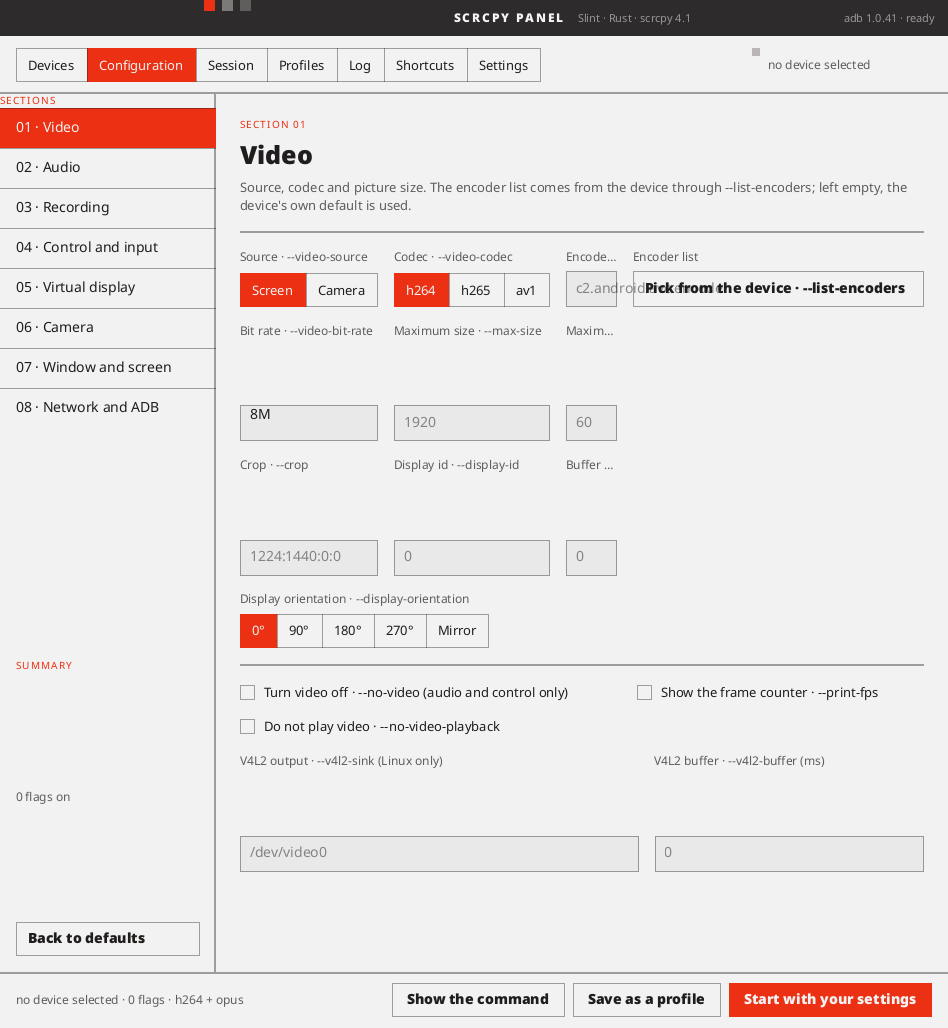
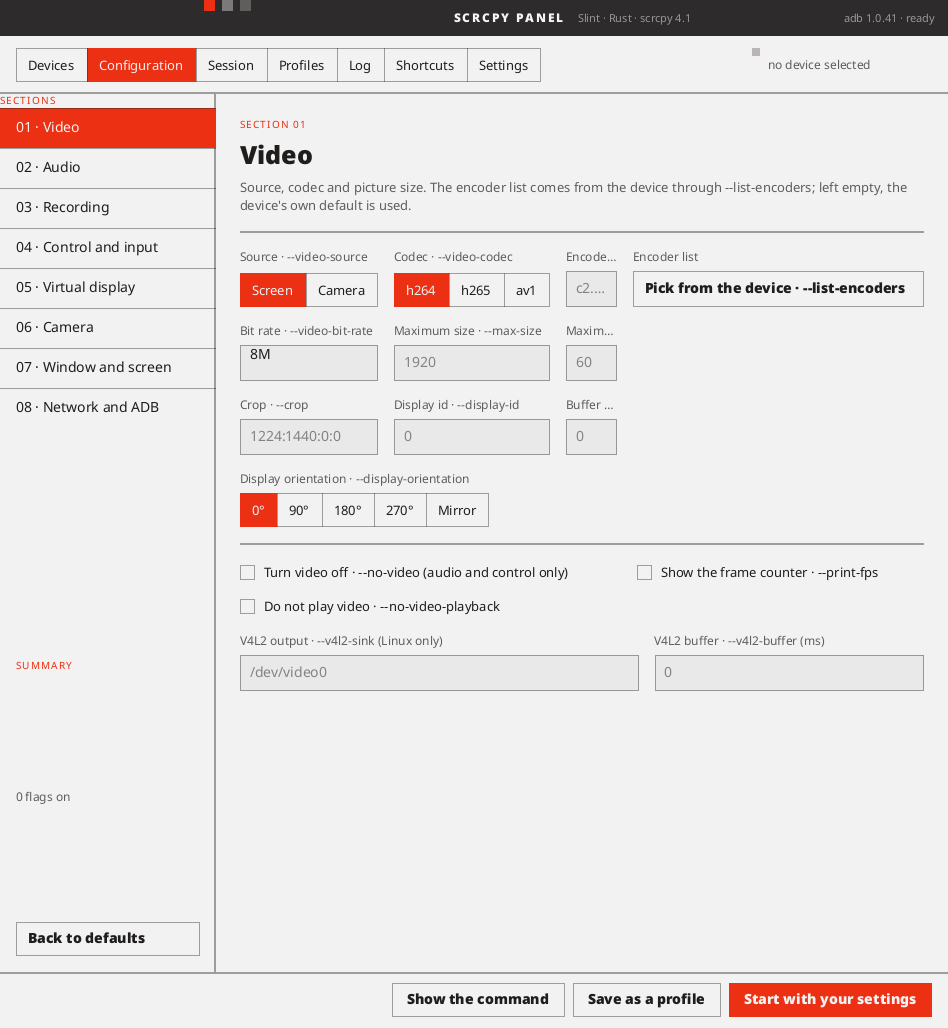
The panel's width is the compositor's, and one field drew over its neighbour
Two things, from one picture taken at the size the panel is actually
given rather than the size it asks for.

The README said the window opens at 948 because "a Window takes the
preference of the layout inside it, and this layout's own preference
wins". That was wrong, and the height says so on its own: a Slint
window's size is preferred.min(max).max(min) over what it declares,
this one declares a preferred height of 800 with no maximum anywhere in
ui/, and the window was 1028 tall. 948x1028 is a tile. COSMIC's
auto-tiler is on here — autotile is true in
~/.config/cosmic/com.system76.CosmicComp/v1/ — and the tile depends on
what else is on the workspace: the same binary was handed 468x492 on a
later day, which is how this was noticed at all. Inside Slint 1200 wins,
because the compiler replaces the child layout's preferred and minimum
with the Window's own rather than taking the larger; it is then thrown
away outside. set_size is the same story with a line to point at now:
winit's Wayland backend takes the compositor's configure verbatim and
resize_event writes it over whatever set_size optimistically reported.
None of that is the client's to fix, and the entry says so.

The overlap was the client's, and it happens at any width where the row
is short of space rather than at 948 in particular. Grp is a GridLayout;
short of space it takes the shortfall from the cells that can give it,
and in the Video section's first row — the only four-cell row in the
[…]

diff --git a/src/panel/mod.rs b/src/panel/mod.rs
@@ -866,3 +866,225 @@ mod stop_tests {
         assert_eq!(status.signal(), Some(libc::SIGKILL));
     }
 }
+
+#[cfg(test)]
+mod picture_tests {
+    //! Photographing the panel, and measuring what is in the picture.
+    //!
+    //! The window's width is not the panel's to choose. COSMIC's auto-tiler is
+    //! on here, so a `--panel` run is given whatever the tile is — 948x1028
+    //! with two windows on a display, 468x492 with four — and neither
+    //! `min-width` nor `set_size` moves it: winit takes the compositor's
+    //! configure verbatim and writes it over whatever was asked for. Looking at
+    //! the panel at a width of one's own choosing therefore means taking the
+    //! compositor out of the loop altogether. A `MinimalSoftwareWindow` is a
+    //! window adapter whose size is whatever it is told, and the software
+    //! renderer draws the real `PanelWindow` into a buffer of that size, with
+    //! no display server involved at all.
+    //!
+    //! `set_platform` takes effect once in a process and the interface language
+    //! is process-wide, so this runs on its own:
+    //!
+    //!     cargo test --release -- --ignored --test-threads=1 picture
+    //!
+    //! `PANEL_SHOT=<path>` also writes the picture out as a P6 PPM, three bytes
+    //! a pixel and no new dependency; `ffmpeg -i shot.ppm shot.png` turns it
+    //! into something that can be looked at.
+
+    use super::*;
+    use slint::platform::software_renderer::{
+        MinimalSoftwareWindow, PremultipliedRgbaColor, RepaintBufferType,
+    };
+
+    /// `Theme.bg`, the colour of the page behind everything.
+    const PAGE: (u8, u8, u8) = (0xf3, 0xf2, 0xf2);
+    /// `Theme.surface`, which is the fill of an `Inp` and of nothing else in a
+    /// configuration row.
+    const SURFACE: (u8, u8, u8) = (0xea, 0xe9, 0xe9);
+    /// Where the section body starts: the section list is 216px and its divider
+    /// is the two before that.
+    const BODY: u32 = 217;
+
+    struct Picture {
+        width: u32,
+        height: u32,
+        pixels: Vec<PremultipliedRgbaColor>,
+    }
+
+    impl Picture {
+        fn at(&self, x: u32, y: u32) -> (u8, u8, u8) {
+            let p = self.pixels[(y * self.width + x) as usize];
+            (p.red, p.green, p.blue)
+        }
+
+        /// Is anything at all drawn in this column, between these rows?
+        ///
+        /// The page is one flat colour and the renderer writes it exactly, so
+        /// a pixel that is not it is a pixel something painted.
+        fn drawn(&self, x: u32, rows: std::ops::Range<u32>) -> bool {
+            rows.into_iter().any(|y| self.at(x, y) != PAGE)
+        }
+
+        fn write_ppm(&self, path: &str) {
+            let mut out = Vec::with_capacity((self.width * self.height * 3) as usize + 32);
+            out.extend_from_slice(format!("P6\n{} {}\n255\n", self.width, self.height).as_bytes());
+            for p in &self.pixels {
+                out.extend_from_slice(&[p.red, p.green, p.blue]);
+            }
+            std::fs::write(path, out).expect("writing the picture");
+        }
+    }
+
+    /// The panel, opened once and drawn at whatever size is asked for.
+    ///
+    /// Once, because `set_platform` takes effect once in a process: the window
+    /// is created against the offscreen adapter and then resized, which is what
+    /// a compositor does to it anyway.
+    struct Panel {
+        adapter: Rc<MinimalSoftwareWindow>,
+        _window: PanelWindow,
+    }
+
+    impl Panel {
+        fn open(tab: &str, section: &str) -> Self {
+            struct Offscreen(Rc<MinimalSoftwareWindow>);
+            impl slint::platform::Platform for Offscreen {
+                fn create_window_adapter(
+                    &self,
+                ) -> std::result::Result<
+                    Rc<dyn slint::platform::WindowAdapter>,
+                    slint::PlatformError,
+                > {
+                    Ok(self.0.clone())
+                }
+            }
+
+            let adapter = MinimalSoftwareWindow::new(RepaintBufferType::NewBuffer);
+            slint::platform::set_platform(Box::new(Offscreen(adapter.clone())))
+                .expect("the platform is set once, by the first of these tests to run");
+
+            let window = PanelWindow::new().expect("the panel window");
+            // Both halves, the way `run()` does it: the interface has two
+            // languages, and setting only Slint's leaves the panel's own
+            // messages — the adb line in the corner is one — in Turkish.
+            window.global::<Settings>().set_language("en".into());
+            apply_language(&window);
+            // The one thing `run()` puts in the chrome that is not a constant,
+            // so that a picture taken here is a picture of the program.
+            window.global::<App>().set_adb_status(adb_status().into());
+            window.global::<App>().set_tab(tab.into());
+            window.global::<App>().set_section(section.into());
+            window.show().expect("showing the window");
+
+            Self { adapter, _window: window }
+        }
+
+        fn shot(&self, width: u32, height: u32) -> Picture {
+            self.adapter.set_size(slint::PhysicalSize::new(width, height));
+
+            let mut pixels =
+                vec![PremultipliedRgbaColor::default(); (width as usize) * (height as usize)];
+            // The first pass lays out and the second draws what the layout
+            // produced; two more in case a binding settles late.
+            for _ in 0..4 {
+                slint::platform::update_timers_and_animations();
+                self.adapter.request_redraw();
+                self.adapter.draw_if_needed(|renderer| {
+                    renderer.render(&mut pixels, width as usize);
+                });
+            }
+            Picture { width, height, pixels }
+        }
+    }
+
+    /// The gutter between the encoder field and the cell beside it, in pixels
+    /// of untouched page, and where the field's own border was found.
+    fn gutter(picture: &Picture) -> (u32, u32) {
+        // The first `Inp` of the topmost row that has one, found by its fill:
+        // `Theme.surface` is an exact colour and nothing else in a row is
+        // filled with it. The first rather than the widest, because at 900 the
+        // encoder field is a ten-pixel sliver and that is exactly the case
+        // worth checking — an elided placeholder still has to stay inside it.
+        let mut found = None;
+        'rows: for y in 0..picture.height {
+            let mut start = None;
+            for x in BODY..picture.width {
+                if picture.at(x, y) == SURFACE {
+                    start.get_or_insert(x);
+                } else if let Some(from) = start.take() {
+                    if x - from >= 6 {
+                        found = Some((y, x - 1));
+                        break 'rows;
+                    }
+                }
+            }
+        }
+        let (top, right) = found.expect("an input box in the section body");
+
+        // The row band that box occupies.
+        let mut bottom = top;
+        while bottom + 1 < picture.height && picture.at(right, bottom + 1) == SURFACE {
+            bottom += 1;
+        }
+        let band = top..bottom + 1;
+
+        // Past the fill comes the box's own 1px border, and after that should
+        // come Theme.s4 of clear page before whatever is in the next cell.
+        let border = right + 1;
+        let mut clear = border + 1;
+        while clear < picture.width && !picture.drawn(clear, band.clone()) {
+            clear += 1;
+        }
+        (clear - (border + 1), border)
+    }
+
+    /// The configuration form's first row is the only one in the panel with
+    /// four cells in it, and at a width the panel is given rather than asks
+    /// for, the encoder field used to be drawn across the gutter beside it.
+    ///
+    /// `Grp` is a `GridLayout`, and a `GridLayout` short of space takes it from
+    /// the cells that can give: both `Seg`s and the `Btn` have a minimum equal
+    /// to their own text, so the whole shortfall lands on the encoder field,
+    /// which has no minimum at all. At 948 that leaves it 51px wide holding a
+    /// 152px placeholder — and a `Rectangle` in Slint does not clip its
+    /// children, so `c2.android.avc.encoder` was painted 112px past its own
+    /// border, over the gutter and under the button drawn after it. Measured
+    /// on this picture before the fix: 71 inked pixels in the 16px gutter,
+    /// filling all sixteen columns of it.
+    ///
+    /// Both halves of the row are still worth having — the field is cramped at
+    /// 948 and this does not widen it — but nothing is drawn on top of
+    /// anything else.
+    #[test]
+    #[ignore = "renders the whole panel and fixes the platform for the process"]
+    fn the_encoder_field_keeps_its_placeholder_to_itself() {
+        let panel = Panel::open("config", "video");
+
+        // The size the compositor handed the window when the README's pictures
+        // were taken, the size the panel actually asks for, and the smallest
+        // it says it supports — where the form is taller than the window and
+        // the section body has to scroll rather than squeeze.
+        for (width, height) in [(948, 1028), (1200, 800), (900, 600)] {
+            let picture = panel.shot(width, height);
+            if let Ok(prefix) = std::env::var("PANEL_SHOT") {
+                picture.write_ppm(&format!("{prefix}-{width}x{height}.ppm"));
+            }
+            let (gutter, border) = gutter(&picture);
+            assert!(
+                gutter > 0,
+                "at {width}x{height} the encoder field's placeholder is drawn outside it: \
+                 its border is at x={border} and x={} is inked as well",
+                border + 1
+            );
+            assert!(
+                gutter >= 12,
+                "at {width}x{height} only {gutter}px of page between the encoder field and \
+                 the cell beside it; the layout leaves 16"
+            );
+            println!(
+                "{width}x{height}: the encoder field's border is at x={border}, \
+                 then {gutter}px of page before the next cell"
+            );
+        }
+    }
+}

diff --git a/README.md b/README.md
@@ -28,9 +28,11 @@ Android devices from a single control panel.
 </tr>
 </table>
 
-<sub>Taken on Linux with Slint's own <code>take_snapshot</code> on the software renderer, at the
-size the panel opens at here — 948×1028. It asks for 1200×800 and does not get it, which is
-[a known issue](#known-issues).</sub>
+<sub>Taken on Linux at the size the panel is given here — 948×1028. It asks for 1200×800 and
+the desktop's tiler decides otherwise, which is [a known issue](#known-issues). The six tabs
+were photographed from a real window with Slint's own <code>take_snapshot</code> on the
+software renderer; the configuration form above them is drawn offscreen at the same size,
+because a real window is not 948 wide on this desktop any more.</sub>
 
 ## A note on the name
 
@@ -710,16 +712,62 @@ in parallel and a third read it. They take turns now — 60 runs, none failed.
 
 ## Known issues
 
-- **The panel opens narrower than it asks for, and its widest row overlaps there.**
-  `ui/panel.slint` declares `preferred-width: 1200px` on the `PanelWindow`, and the window
-  opens at 948 — measured on this desktop, both on Wayland and on Xwayland, and unchanged by
-  calling `set_size` before the window is shown or after (it reports the new size and then
-  goes back). A `Window` takes the preference of the layout inside it, and this layout's own
-  preference wins. At 948 the Configuration tab's "Pick from the device · --list-encoders"
-  button is wider than its cell and draws over the encoder field beside it. Moving the
-  preference onto the layout was tried and made it worse — 948×492 — so it is written down
-  rather than guessed at. `min-width` is 900, so this is inside the size the panel says it
-  supports; widening the window by hand fixes the overlap.
+- **The panel is given its width rather than choosing it, and one row used to overlap when
+  that width was small.** `ui/panel.slint` declares `preferred-width: 1200px` on the
+  `PanelWindow` and the window opened at 948×1028 when the screenshots above were taken. That
+  number is not Slint's. COSMIC's auto-tiler is on here — `autotile` is `true` in
+  `~/.config/cosmic/com.system76.CosmicComp/v1/` — so the window is handed whatever the tile
+  is, and the tile depends on what else is on the workspace: the same binary was given
+  468×492 on a later day. The height settles the origin on its own. A Slint window's size is
+  `preferred.min(max).max(min)` over what it declares, and this one declares 800 with no
+  maximum anywhere in `ui/`, so Slint can never ask for 1028 — and width and height arrive in
+  the same xdg configure. `set_size` does not help, and there is now a line to point at
+  rather than an observation: winit's Wayland backend takes the compositor's configure
+  verbatim and turns its own constraining off with it, and `i-slint-backend-winit`'s
+  `resize_event` writes that size over whatever `set_size` optimistically reported, which is
+  exactly "it reports the new size and then goes back". **An earlier version of this entry
+  blamed the layout inside the window, and that was wrong**: the compiler *replaces* the
+  child layout's preferred and minimum widths with the `Window`'s own, so 1200 does win
+  inside Slint and is then thrown away outside it.
+- **The overlap was real, and it was nothing to do with the window's size.** It happens at
+  any width where the row is short of space. `Grp` is a `GridLayout`, and one short of space
+  takes the shortfall out of the cells that can give it: the two `Seg`s and the `Btn` in the
+  Video section's first row — the only row in the panel with four cells — have minimums equal
+  to their own text, so all of the shortfall lands on the encoder field, which had no minimum
+  at all. At 948 that leaves the field 51px wide holding a 152px placeholder, and a
+  `Rectangle` in Slint does not clip its children, so `c2.android.avc.encoder` was painted
+  112px past its own border: 71 inked pixels filling all sixteen columns of the gutter, under
+  a button drawn after it. The placeholder was the one `Text` in `ui/components.slint` left
+  free to be as wide as it liked — the `TextInput` four lines below it, the field label above
+  it and the dropdown beside it were all bounded already. It elides now, and
+  `the_encoder_field_keeps_its_placeholder_to_itself` measures the gutter rather than
+  describing it — at the size the compositor gave the window, the size the panel asks for,
+  and the smallest it says it supports. 16px of clear page at all three; against the tree
+  before the fix it fails by name: *at 948x1028 the encoder field's placeholder is drawn
+  outside it: its border is at x=616 and x=617 is inked as well.*
+- **And the form spread itself over whatever height it was given.** The same picture showed
+  it and it took a moment to see: at 1028 tall, "Bit rate · --video-bit-rate" sat 92px above
+  the box it names, because the slack between the form's natural height and the window's went
+  into the `GridLayout`'s rows and then into each `Fld` between its label and its control. A
+  section is a stack of rows at their own height rather than something to spread over a
+  window, so the configuration body is `alignment: start` now and the slack stays at the
+  bottom where it belongs. Nothing moves at 1200x800, where the form fills the height already.
+- **What is still true is that the form does not fit, and only the overlap was ever a bug.**
+  At 948 the encoder field is 51px wide, which is about three characters of a codec name, and
+  section 05's two longest checkbox labels elide by a few pixels. At 900 — the width the panel
+  itself declares as the least it supports — the third column of every row is a ten-pixel
+  sliver, and the section body has grown a scrollbar. Nothing is drawn on top of anything
+  else at any of them, which is the part that was fixed. `min-width: 900px` is a promise the
+  content cannot keep, and in Slint it replaces the layout's own minimum rather than raising
+  it, so it is the only minimum the panel ever states.
+- **Neither font the theme names is on this machine, so nothing in these pictures is the
+  design's type.** `ui/theme.slint` asks for `Archivo`, and for the monospace surfaces —
+  placeholders, serials, the command bar — it asks for `monospace`. `fc-list` has no Archivo
+  at all, and `monospace` is a fontconfig alias rather than a family name: Slint hands the
+  name to fontique to look up as a family, so that one does not resolve either. Both fall
+  back to Noto Sans. Measured rather than assumed: `c2.android.avc.encoder` in the encoder
+  field is 152px of ink, and that string sets to 153.0px in Noto Sans against 184.9 in Noto
+  Sans Mono. The overlap above was as small as it was for the same reason.
 - **The server version is pinned exactly.** The server refuses to start unless the client
   announces its own version, so `SCRCPY_SERVER_VERSION` in `src/main.rs` must match the
   `scrcpy-server` you run. It is currently `4.1`, and 3.x servers are not merely rejected —
@@ -1375,15 +1423,24 @@ REC=/path/to/a-recording.mp4 \
 
 # The window: what a frame costs between the decoder and the screen.
 WGPU=1 ./target/release/examples/frame_cost 1080x2400 400
+
+# The panel, at a width of one's own choosing. A real window is whatever size
+# the compositor decides, so this draws the real PanelWindow offscreen with the
+# software renderer instead, in English, and measures the picture. PANEL_SHOT
+# writes each size out beside the others — /tmp/panel-948x1028.ppm and its
+# fellows — which `ffmpeg -i panel-948x1028.ppm x.png` turns into a picture.
+PANEL_SHOT=/tmp/panel \
+  cargo test --release -- --ignored --nocapture --test-threads=1 picture
 ```
 
 **Tests that read the source are a pattern here, not a curiosity.** Several of the guards in
 this tree work by scanning the repository itself, because that is where the fault lives:
 `every_value_the_panel_offers_is_one_the_binary_takes` pushes every value in the `.slint`
 pickers through the real argument parser, `nothing_in_the_panel_speaks_turkish_through_format`
-uses the `.po` as a dictionary to find sentences that never asked to be translated, and
-`nothing_rewrites_the_form_and_leaves_the_serial_behind` checks an invariant at its call sites
-because there is no window in a unit test. If a class of bug has bitten twice, a guard that
+uses the `.po` as a dictionary to find sentences that never asked to be translated,
+`nothing_in_the_interface_speaks_turkish_without_a_translation` points the same dictionary at
+the `@tr` strings in `ui/`, and `nothing_rewrites_the_form_and_leaves_the_serial_behind`
+checks an invariant at its call sites because there is no window in a unit test. If a class of bug has bitten twice, a guard that
 reads the source is often the honest way to stop the third.
 
 **`#[ignore]`d tests run the real external tool.** Half of a device-bound layer can be checked
@@ -1405,9 +1462,16 @@ writing one. They are written in English; the interface and its `.po` are in Tur
 **Before opening a pull request:**
 
 ```bash
-cargo test --release        # 212 tests, 10 ignored
-cargo clippy --all-targets  # the tree is warning-free
+cargo test --release        # 213 tests, 11 ignored
+cargo clippy --all-targets  # clean bar one lint the toolchain brought with it
 ```
+
+**That one lint arrived with the compiler rather than with the code.**
+`clippy::chunks_exact_to_as_chunks` is new in 1.98 and fires seven times over four lines —
+`src/ui/mod.rs:151`, `src/display/v4l2_sink.rs:104` and two in `examples/frame_cost.rs`. All
+four are pixel loops, and a pixel loop is not rewritten here without a measurement behind it,
+so they are written down rather than swapped for `as_chunks` on a lint's say-so. Nothing else
+warns; a patch that adds a warning still needs to say why.
 
 If a change touches the panel's form, add the flag to `SUPPORTED` in
 `src/panel/command/flags.rs` as well, or the panel will build a command line the binary
